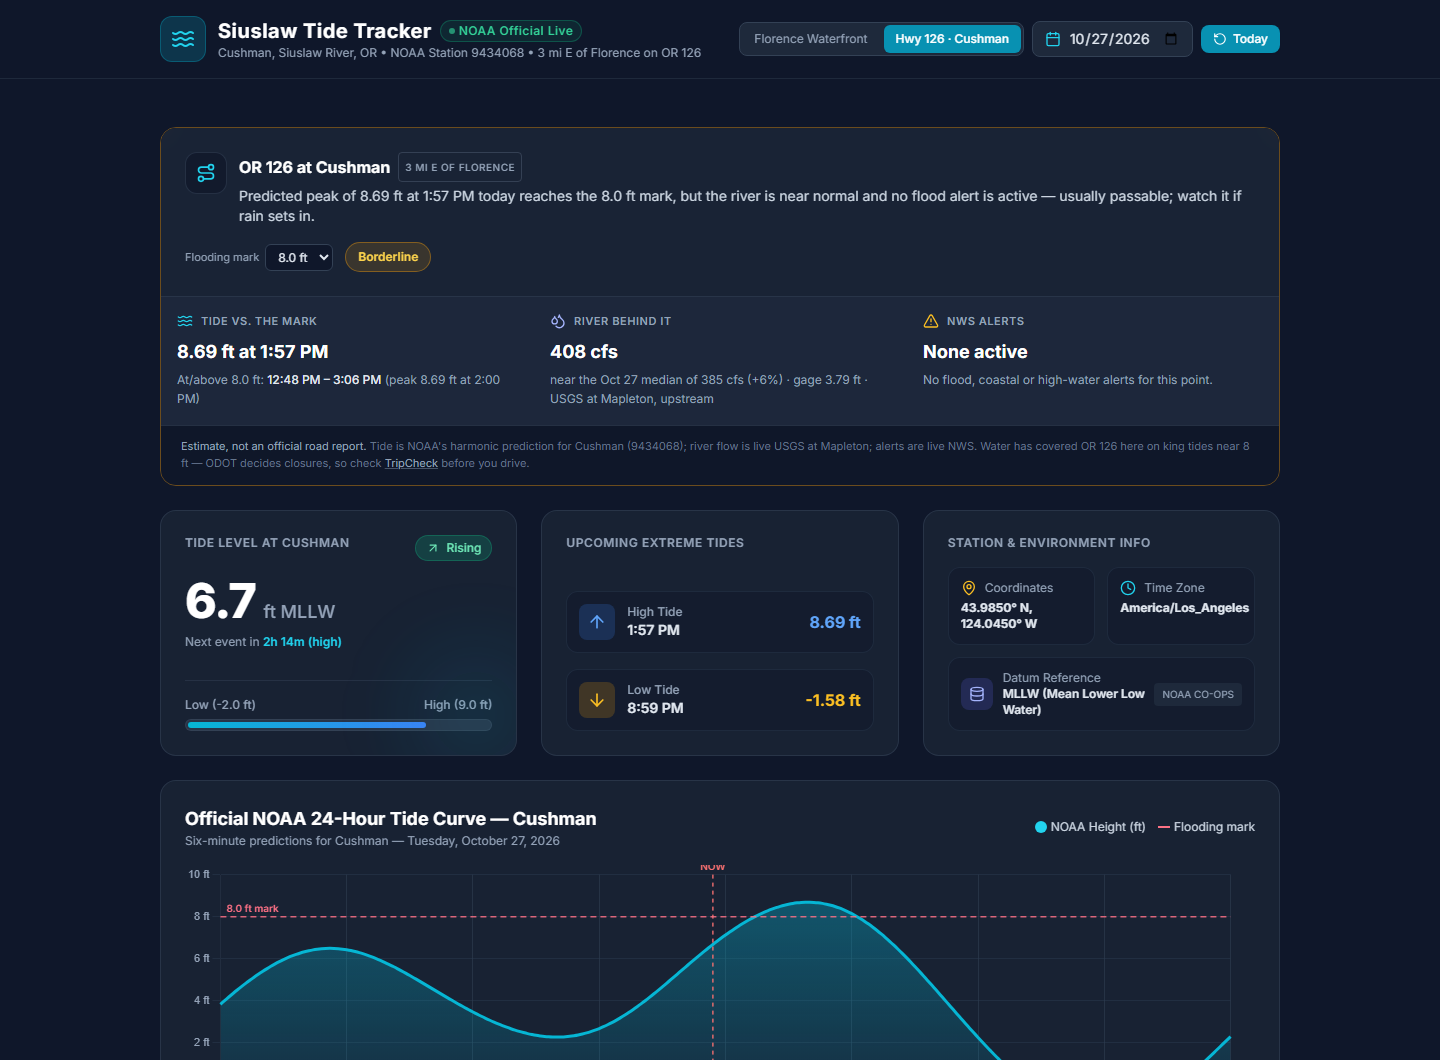
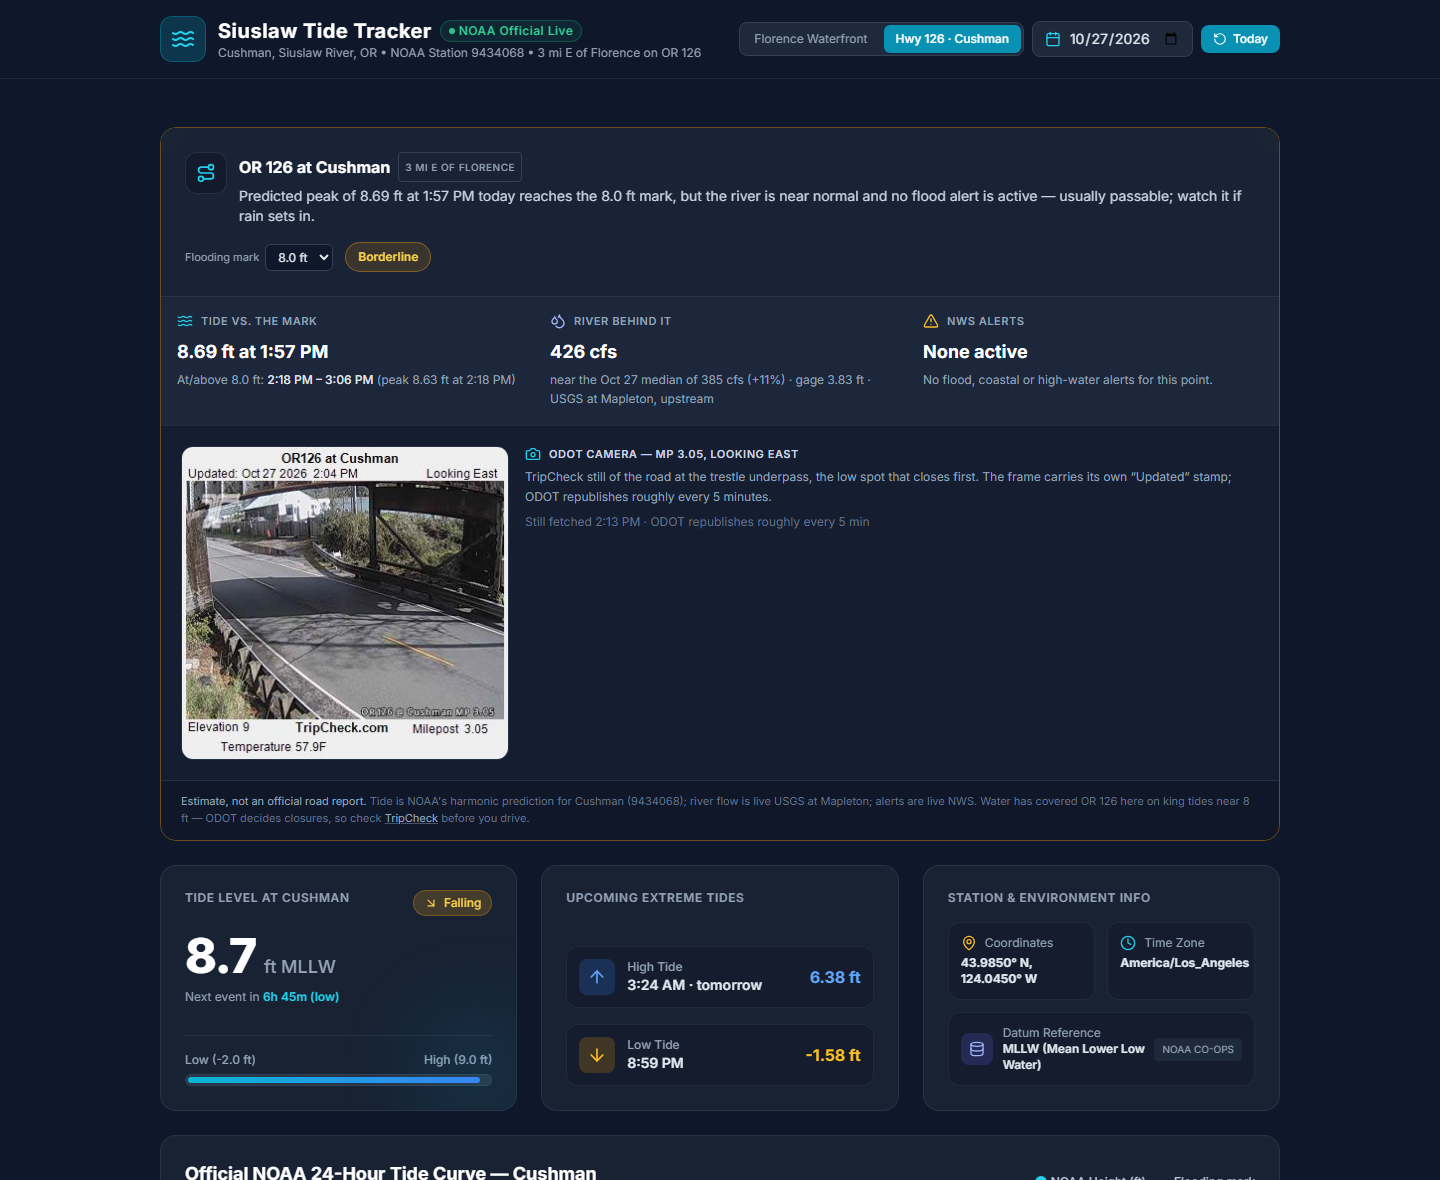
feat(cushman): ODOT TripCheck camera still at MP 3.05, refreshed each minute
Also fill a missing next-high from tomorrow once today's high has passed,
instead of showing a dash until midnight.

diff --git a/index.html b/index.html
@@ -133,6 +133,24 @@
                 </div>
             </div>
 
+            <!-- ODOT camera: the one view that actually shows water on the road -->
+            <div class="bg-slate-800/40 border-t border-slate-700/40 p-4 md:p-5">
+                <div class="flex flex-col md:flex-row gap-4 md:items-start">
+                    <a id="camLink" href="https://tripcheck.com/Pages/Road-Conditions" target="_blank" rel="noopener" class="shrink-0 mx-auto md:mx-0">
+                        <img id="cushmanCam" alt="ODOT camera at OR 126 and Cushman, looking east toward the trestle underpass"
+                             width="328" height="314" loading="lazy" decoding="async"
+                             class="rounded-xl border border-slate-700/60 w-[328px] max-w-full h-auto">
+                    </a>
+                    <div class="min-w-0 text-xs leading-relaxed text-slate-400">
+                        <div class="flex items-center gap-2 mb-1 text-slate-300 font-semibold text-[11px] uppercase tracking-wider">
+                            <i data-lucide="camera" class="w-4 h-4 text-cyan-400"></i> ODOT camera — MP 3.05, looking east
+                        </div>
+                        <p>TripCheck still of the road at the trestle underpass, the low spot that closes first. The frame carries its own “Updated” stamp; ODOT republishes roughly every 5 minutes.</p>
+                        <p id="camStatus" class="mt-1.5 text-slate-500">Loading camera…</p>
+                    </div>
+                </div>
+            </div>
+
             <div class="px-5 py-3 bg-slate-900/60 border-t border-slate-700/60 text-[11px] leading-relaxed text-slate-500">
                 <span class="text-slate-400">Estimate, not an official road report.</span>
                 Tide is NOAA's harmonic prediction for Cushman (9434068); river flow is live USGS at Mapleton; alerts are live NWS.
@@ -326,6 +344,23 @@
         let tideChartInstance = null;
         let renderSeq = 0;                 // stale-response guard for station/date switches
         const state = { station: 'florence', date: null, mark: ROAD.defaultMark };
+
+        // ODOT TripCheck stills. Not an official API: images are served straight
+        // from tripcheck.com/RoadCams/cams/<filename> and carry their own "Updated"
+        // stamp burned into the frame. Filenames embed ODOT's published-image id, so
+        // they change if a camera is re-published — resolve again from
+        // https://tripcheck.com/Scripts/map/data/cctvinventory.js (this one is cameraId 548).
+        const CAM = {
+            cushman: {
+                url: 'https://tripcheck.com/RoadCams/cams/ORE126%20at%20Cushman_pid2651.JPG',
+                page: 'https://tripcheck.com/Pages/Road-Conditions',
+                name: 'OR126 at Cushman'
+            }
+        };
+        // Measured cadence: ODOT republished 20:58:52Z then 21:04:33Z (~5m40s), so
+        // polling every minute bounds staleness without hammering the origin.
+        const CAM_REFRESH_MS = 60000;
+        let camTimer = null;
 
         lucide.createIcons();
 
@@ -678,6 +713,49 @@
             }
         }
 
+        // ---------------------------------------------------------- camera still
+        function refreshCamera() {
+            const img = document.getElementById('cushmanCam');
+            if (!img) return;
+            // Cache-bust: without a changing query the browser happily keeps showing
+            // the still it fetched minutes ago.
+            img.src = `${CAM.cushman.url}?t=${Date.now()}`;
+        }
+
+        function startCamera() {
+            const img = document.getElementById('cushmanCam');
+            const status = document.getElementById('camStatus');
+            if (!img || !status) return;
+
+            if (!img.dataset.wired) {
+                img.dataset.wired = '1';
+                img.addEventListener('load', () => {
+                    img.classList.remove('hidden');
+                    status.className = 'mt-1.5 text-slate-500';
+                    status.textContent = `Still fetched ${shortTime(new Date())} · ODOT republishes roughly every 5 min`;
+                });
+                img.addEventListener('error', () => {
+                    img.classList.add('hidden');
+                    status.className = 'mt-1.5 text-amber-400/90';
+                    status.innerHTML = 'Camera image did not load — ODOT may have re-published it. ' +
+                        `<a class="underline hover:text-cyan-400" href="${CAM.cushman.page}" target="_blank" rel="noopener">Open TripCheck cameras</a>.`;
+                });
+            }
+
+            refreshCamera();
+            if (!camTimer) {
+                camTimer = setInterval(() => { if (!document.hidden) refreshCamera(); }, CAM_REFRESH_MS);
+            }
+        }
+
+        function stopCamera() {
+            if (camTimer) { clearInterval(camTimer); camTimer = null; }
+        }
+
+        document.addEventListener('visibilitychange', () => {
+            if (!document.hidden && state.station === 'cushman') refreshCamera();
+        });
+
         // ------------------------------------------------------------ chart bits
         const nowLinePlugin = {
             id: 'nowLine',
@@ -826,8 +904,11 @@
                 btn.className = 'station-btn px-3 py-1.5 rounded-md transition ' +
                     (on ? 'bg-cyan-600 text-white font-medium shadow-sm' : 'text-slate-400 hover:text-slate-200');
             });
-            if (state.station !== 'cushman') {
+            if (state.station === 'cushman') {
+                startCamera();
+            } else {
                 document.getElementById('hwyPanel').classList.add('hidden');
+                stopCamera();
                 const legend = document.getElementById('markLegend');
                 legend.classList.add('hidden');
                 legend.classList.remove('flex');
@@ -891,22 +972,26 @@
             // After the final tide of the day (late evening), reach into tomorrow so the
             // card never advertises an event that already happened.
             document.getElementById('extremesCardLabel').innerText = isToday ? 'Upcoming Extreme Tides' : 'Extreme Tides That Day';
-            let upcoming = tideData.extremes.filter(e => !isToday || e.when >= now);
-            if (isToday && upcoming.length === 0) {
-                try {
-                    const tomorrow = new Date(now.getTime() + 864e5);
-                    const next = await fetchNoaaTides(st.id, localDateStr(tomorrow));
-                    if (seq !== renderSeq) return;
-                    upcoming = next.extremes;
-                    document.getElementById('extremesCardLabel').innerText = 'First Tides Tomorrow';
-                } catch (_) { /* keep empty */ }
-            }
-            const nextHigh = upcoming.find(e => e.type === 'High');
-            const nextLow = upcoming.find(e => e.type === 'Low');
+            const upcoming = tideData.extremes.filter(e => !isToday || e.when >= now);
+            let nextHigh = upcoming.find(e => e.type === 'High');
+            let nextLow = upcoming.find(e => e.type === 'Low');
 
-            document.getElementById('nextHighTime').innerText = nextHigh ? nextHigh.time : '—';
+            // Late in the day one side runs out: at 2 PM today's high has passed, so the
+            // next HIGH is tomorrow's. Fill it in rather than showing "—" until midnight.
+            if (isToday && (!nextHigh || !nextLow)) {
+                try {
+                    const tmr = await fetchNoaaTides(st.id, localDateStr(new Date(now.getTime() + 864e5)));
+                    if (seq !== renderSeq) return;
+                    if (!nextHigh) nextHigh = tmr.extremes.find(e => e.type === 'High' && e.when >= now);
+                    if (!nextLow) nextLow = tmr.extremes.find(e => e.type === 'Low' && e.when >= now);
+                } catch (_) { /* leave the dash */ }
+            }
+
+            const whenText = ev => (ev && localDateStr(ev.when) !== localDateStr(now)) ? `${ev.time} · tomorrow` : (ev ? ev.time : '—');
+
+            document.getElementById('nextHighTime').innerText = whenText(nextHigh);
             document.getElementById('nextHighHeight').innerText = nextHigh ? `${nextHigh.height.toFixed(2)} ft` : '-- ft';
-            document.getElementById('nextLowTime').innerText = nextLow ? nextLow.time : '—';
+            document.getElementById('nextLowTime').innerText = whenText(nextLow);
             document.getElementById('nextLowHeight').innerText = nextLow ? `${nextLow.height.toFixed(2)} ft` : '-- ft';
 
             const soonest = [nextHigh, nextLow].filter(Boolean).sort((a, b) => a.when - b.when)[0];

diff --git a/README.md b/README.md
@@ -24,6 +24,7 @@ A single-file tide dashboard for the Siuslaw River, Oregon — **Florence** (NOA
 - **Tide vs. the mark** — the day's predicted peak and the exact window the tide sits at or above the mark, e.g. `12:48 PM – 3:06 PM (peak 8.69 ft)`.
 - **River behind it** — live USGS discharge and gage height at Mapleton (upstream), compared with that calendar day's **50th-percentile flow** over the gauge's record, so "408 cfs" becomes "near the Oct 27 median of 385 cfs".
 - **NWS alerts** — active flood / coastal / high-water alerts for the point, straight from `api.weather.gov`.
+- **ODOT camera** — the TripCheck still from **OR 126 at Cushman, MP 3.05, looking east** at the trestle underpass. It's the one pane that shows water on the road directly; the frame carries its own "Updated" stamp, and the page re-fetches it every minute while the tab is visible.
 - A dashed **flooding-mark line** on the chart, and a **Flooding mark** selector (7.5 / 8.0 / 8.5 / 9.0 ft) that persists in `localStorage`, so locals can tune it to what they actually see.
 
 Both views share one date picker and one render pipeline, and a render-token guard drops any late response from a previous station or date, so the two views can never disagree about the same state.
@@ -62,6 +63,14 @@ So ~8 ft is where water has reached the road, and wet weather moves the practica
 - Tide gates, culverts and local drainage aren't modelled; the Mapleton gauge is upstream and only a proxy for how hard the river is pushing back.
 - **ODOT decides closures.** The panel links [TripCheck](https://tripcheck.com/) for the actual road status.
 
+### The camera
+
+ODOT's roadside stills are **not a public API**. The image is served straight from `tripcheck.com/RoadCams/cams/<filename>`, where the filename embeds ODOT's published-image id — this one is `ORE126 at Cushman_pid2651.JPG`, resolved from [the TripCheck camera inventory](https://tripcheck.com/Scripts/map/data/cctvinventory.js) (`cameraId 548`, `route OR126`, `title "OR126 at Cushman"`).
+
+- **Cadence:** measured by polling `Last-Modified` — `20:58:52Z` then `21:04:33Z`, so ODOT republishes roughly every **5½ minutes**. The page re-fetches every 60 s (and on tab focus) with a `?t=` cache-buster, so the still is never more than a minute behind ODOT.
+- **No CORS on the inventory file**, so the page can't re-resolve the filename by itself. If ODOT re-publishes the camera the image 404s, the page hides it and links out to TripCheck instead of showing a broken frame. To fix, re-read the inventory and update `CAM.cushman.url`.
+- There is a second camera in the inventory, `Siuslaw River Florence (USCG)` (`pid4901`) — it currently serves a **"This image is currently unavailable"** placeholder last updated 17 Oct, so the Florence view deliberately has no camera pane. Check `Last-Modified` before adding it.
+
 ## Data notes
 
 | | Florence | Cushman |
@@ -96,6 +105,7 @@ Runtime dependencies are three public CDNs: Tailwind (Play CDN), Chart.js 4, and
 1. **The API rejects `date=exact`.** An earlier revision passed `date=exact&begin_date=YYYYMMDD`, which returns **HTTP 400 `Wrong Date: The supported date values are: latest, recent, or today`** — every request failed and the page silently fell back to the synthetic curve while still claiming "NOAA Live". The correct form is `begin_date=YYYYMMDD&range=24` (or an explicit `end_date`).
 2. **USGS daily statistics are RDB-only.** `nwis/stat` returns `text/plain` even when asked for JSON, so the p50 lookup parses tab-separated text; `nwis/iv` does have a JSON format.
 3. **Six-minute samples give off-hour labels.** Chart ticks are filtered to clean 3-hour marks, and the grid-line colour is scriptable so only those ticks draw a rule — otherwise 240 samples hatch the plot.
+4. **A camera still needs a cache-buster and an existence check.** ODOT serves `Last-Modified` but no `Cache-Control`, so `<img src>` will happily re-display a still from an hour ago; append `?t=Date.now()` on each refresh. And the URL is not stable — the published-image id in the filename changes when ODOT re-publishes a camera, so wire an `onerror` fallback instead of trusting a hardcoded path forever.
 
 ## License
 
